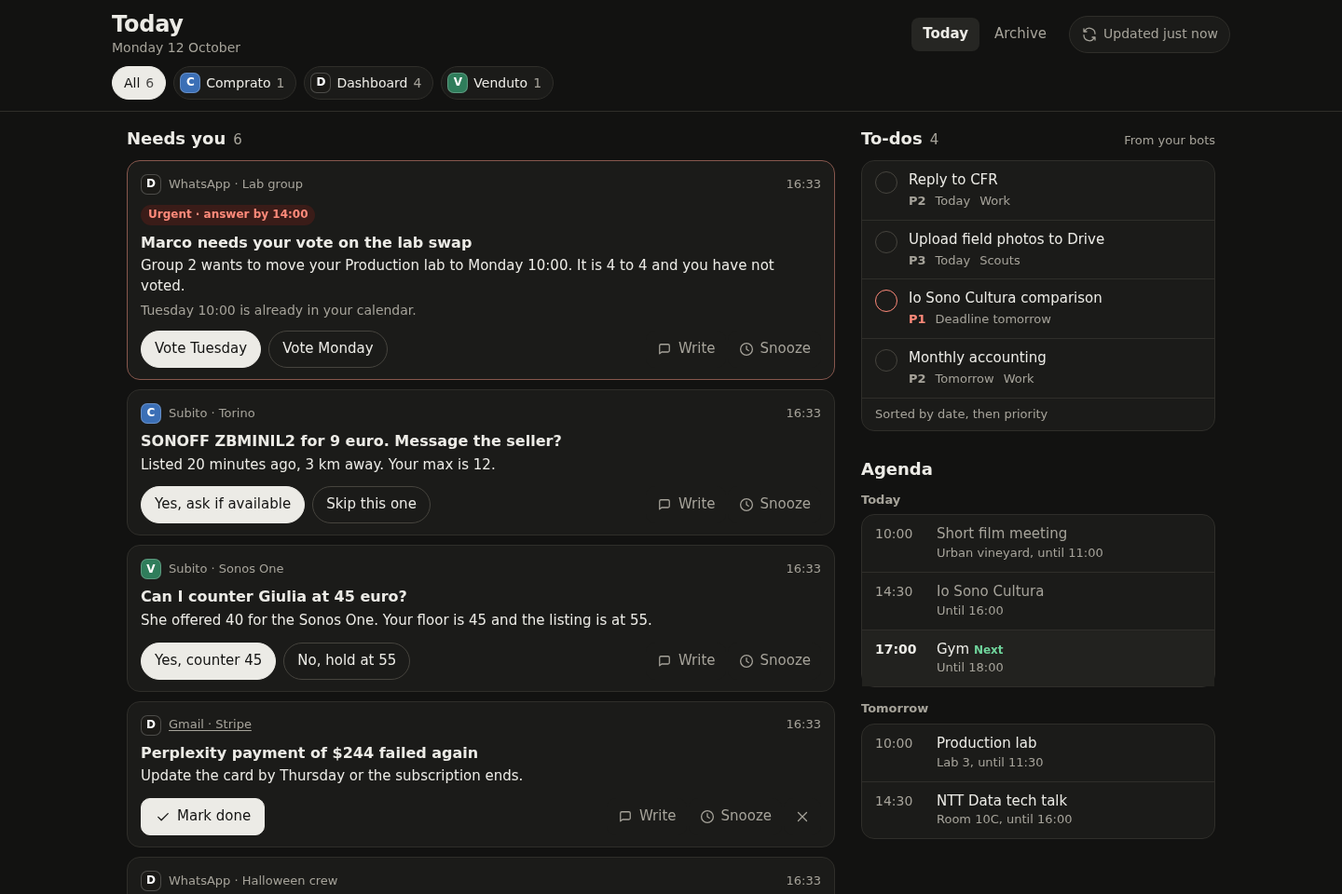
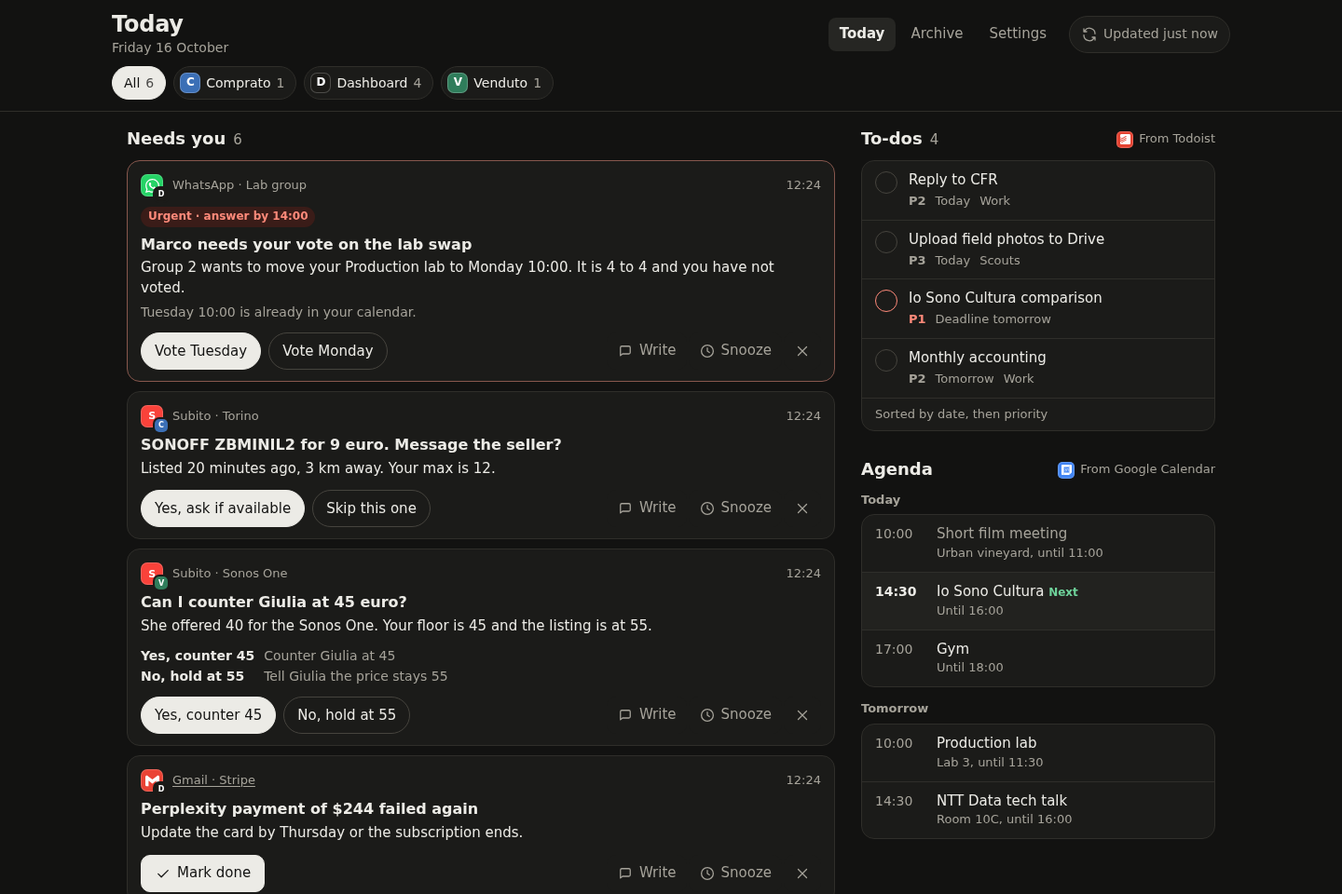
Rewrite the README in the house style and split long guides into docs/ (#19)
The top of the README now has a centered icon header, a short description,
badges, a links row and a hero screenshot in light and dark. PoliTO avvisi,
WhatsApp/mail/calendar, triage with Jev and backups move to docs/ and are
linked from a Documentation table. Screenshots are retaken from the demo data.

The old README said the server has no runtime dependencies. It has three
(imapflow, postal-mime, ical.js), so that line is corrected.

diff --git a/server/triage.ts b/server/triage.ts
@@ -132,7 +132,7 @@ export function decide(answers: JevResult["answers"], replyPct: number, automate
   return { level, need: picked, actionable, doubtful, automated, chat };
 }
 
-/** Where a decision sends the messages. The table in the README matches this. */
+/** Where a decision sends the messages. The table in docs/triage.md matches this. */
 export function routeFor(d: Decision): Route {
   if (d.actionable) return d.level >= NOW ? "wake" : "ride";
   if (d.doubtful) return "card";

diff --git a/README.md b/README.md
@@ -1,25 +1,72 @@
-<img src="public/icon-192.png" width="64" height="64" alt="">
+<p align="center">
+  <img src="public/icon-192.png" width="80" height="80" alt="">
+</p>
 
-# Grok Bot Dashboard
+<h1 align="center">Grok Bot Dashboard</h1>
 
-Grok Bot Dashboard is one page for everything your Grok Bots want from you: the questions waiting for an answer, your to-dos, today's agenda and a catch-up of busy chats. You answer with a tap instead of scrolling a chat thread.
+<p align="center">
+  One page for everything your Grok Bots want from you: questions waiting for an answer, your to-dos, today's agenda and a catch-up of busy chats.<br>
+  It runs on your own computer, opens only for your Tailscale account, and you answer with a tap instead of scrolling a chat thread.
+</p>
 
-It runs on your own computer and opens only on your Tailscale network, for your Tailscale account. There's no account to create and nothing to pay for beyond the Grok Bot subscription you already have.
+<p align="center">
+  <a href="https://github.com/SuperTost100/Grok-Bot-Dashboard/actions/workflows/ci.yml"><img alt="CI" src="https://img.shields.io/github/actions/workflow/status/SuperTost100/Grok-Bot-Dashboard/ci.yml?branch=main&label=checks"></a>
+  <a href="LICENSE"><img alt="MIT license" src="https://img.shields.io/badge/license-MIT-1b1a17"></a>
+  <img alt="Node.js 24 or newer" src="https://img.shields.io/badge/node-24%2B-1b1a17">
+</p>
+
+<p align="center">
+  <a href="#start">Start</a> ·
+  <a href="#documentation">Documentation</a>
+</p>
 
 <picture>
   <source media="(prefers-color-scheme: dark)" srcset="docs/screenshots/today-dark.png">
-  <img alt="The Today page with demo data: six cards under Needs you, led by an urgent vote on a lab swap with Vote Tuesday and Vote Monday buttons, then to-dos from Todoist on the right, today's and tomorrow's agenda, and two catch-up summaries." src="docs/screenshots/today-light.png">
+  <img alt="The Today page with demo data: six cards under Needs you, led by an urgent vote on a lab swap with Vote Tuesday and Vote Monday buttons, then to-dos from Todoist on the right and today's and tomorrow's agenda." src="docs/screenshots/today-light.png">
 </picture>
+
+## Why Grok Bot Dashboard
+
+Grok Bots ask their questions in a chat thread, where they scroll away. The dashboard collects what the bots found on one page, and each card carries the answers the bot suggests. Tap one and the bot acts within seconds.
+
+There's no account to create and nothing to pay for beyond the Grok Bot subscription you already have. The server is a single Node.js process with one SQLite file. It listens on `127.0.0.1` and opens only for your Tailscale account. On a phone, add it to your home screen and it opens full screen like an app.
 
 ## What it does
 
-1. **Collects what needs you.** Your bots post cards: a question with suggested answers, a reply they drafted, a yes/no approval, a reminder. Urgent ones sort first with their deadline.
-2. **Lets you answer in one tap.** Pick an answer, send or edit a draft, snooze, or write the bot an instruction. Anything that reaches other people waits 5 seconds with Undo, then goes to the bot that posted the card.
-3. **Shows your day.** To-dos straight from Todoist (tick them off on the page), today's and tomorrow's agenda, and one-paragraph summaries of busy group chats and mailboxes.
-4. **Brings in PoliTO avvisi.** Optional: unread course avvisi and school messages from the Politecnico di Torino become cards, and marking one read here marks it read in the PoliTO app too.
-5. **Keeps a 30-day archive.** Everything you answered, dismissed or snoozed, searchable, with what the bot did about it.
+**Collect what needs you.** Your bots post cards: a question with suggested answers, a reply they drafted, a yes/no approval, a reminder. Urgent ones sort first with their deadline.
 
-On a phone, add it to your home screen and it opens full screen like an app.
+**Answer in one tap.** Pick an answer, send or edit a draft, snooze, or write the bot an instruction. Anything that reaches other people waits 5 seconds with Undo, then goes to the bot that posted the card.
+
+**See your day.** To-dos come straight from Todoist, and you tick them off on the page. Next to them sit today's and tomorrow's agenda and one-paragraph summaries of busy group chats and mailboxes.
+
+**Bring in PoliTO avvisi.** Optional. Unread course avvisi and school messages from the Politecnico di Torino become cards, and marking one read here marks it read in the PoliTO app too. [More in the PoliTO guide](docs/polito.md).
+
+**Read WhatsApp, mail and calendar yourself.** Optional and read-only. The dashboard reads WhatsApp through WAHA, up to three mailboxes over IMAP and your calendars through iCal, so the bot doesn't have to scan them on a schedule. [Set it up in the sources guide](docs/sources.md).
+
+**Sort messages with Jev.** Optional. A small decision model on OpenRouter rates new messages, so the Grok Bot runs only when one needs a reply. 160 decisions cost under 1¢. [How triage works](docs/triage.md).
+
+**Keep a 30-day archive.** Everything you answered, dismissed or snoozed stays searchable, with what the bot did about it.
+
+<table>
+  <tr>
+    <td width="50%">
+      <picture>
+        <source media="(prefers-color-scheme: dark)" srcset="docs/screenshots/archive-dark.png">
+        <img alt="The Archive tab with five closed cards, for example a Sonos offer closed by the Venduto bot with the note Countered Giulia at 45 euro." src="docs/screenshots/archive-light.png">
+      </picture>
+    </td>
+    <td width="50%">
+      <picture>
+        <source media="(prefers-color-scheme: dark)" srcset="docs/screenshots/settings-dark.png">
+        <img alt="The Settings tab showing the undo window at 5 seconds, 30 days of archive, 7 daily backups and the triage section in Shadow mode." src="docs/screenshots/settings-light.png">
+      </picture>
+    </td>
+  </tr>
+  <tr>
+    <td>The archive keeps closed cards for 30 days, with the bot's note.</td>
+    <td>Settings change the undo window, triage and sources without a restart.</td>
+  </tr>
+</table>
 
 ## How it fits with Grok Bot
 
@@ -27,7 +74,9 @@ A Grok Bot named "Dashboard" scans your WhatsApp, mail and calendar on a schedul
 
 [Set up the bots](bot/README.md) after the dashboard runs.
 
-## Requirements
+## Start
+
+You need:
 
 - Docker with Compose, or Node.js 24 or newer.
 - [Tailscale](https://tailscale.com) on the machine that runs the dashboard and on the devices you open it from.
@@ -35,7 +84,7 @@ A Grok Bot named "Dashboard" scans your WhatsApp, mail and calendar on a schedul
 - Optional: a Todoist API token. Without one, a bot sends your to-dos instead.
 - Optional: [areadidattica](https://github.com/SuperTost100/areadidattica-cli) running on the same machine, for PoliTO avvisi.
 
-## Start
+Clone the repo and copy the example settings:
 
 ```bash
 git clone https://github.com/SuperTost100/Grok-Bot-Dashboard.git
@@ -55,7 +104,7 @@ openssl rand -hex 24
 chmod 600 .env
 ```
 
-Create the data folder yourself so it belongs to you rather than to root, then start the container. It runs as user and group 1000; if `id -u` prints something else, set `DASHBOARD_UID` and `DASHBOARD_GID` in `.env` first.
+Create the data folder yourself so it belongs to you rather than to root, then start the container. It runs as user and group 1000. If `id -u` prints something else, set `DASHBOARD_UID` and `DASHBOARD_GID` in `.env` first.
 
 ```bash
 mkdir -p data
@@ -75,6 +124,7 @@ Open `https://<machine-name>.<tailnet>.ts.net:8443` from any of your devices. An
 No Docker or Tailscale needed:
 
 ```bash
+npm ci
 npm run dev
 ```
 
@@ -111,64 +161,6 @@ The Settings tab on the page changes the undo window, the archive and backup len
 | `WEBHOOK_ALLOW_PRIVATE`       | no       | `0`         | `1` lets bots register webhooks on your LAN or tailnet                   |
 | `AUTH_MODE`                   | no       | `tailscale` | `none` turns off the owner check. Only for local development.            |
 
-## PoliTO avvisi
-
-Course avvisi from the Politecnico di Torino don't arrive by email, so the dashboard reads them from [areadidattica](https://github.com/SuperTost100/areadidattica-cli), a small local service over the API behind the official PoliTO Students app. No Grok Bot is involved, so it costs nothing from your Grok allowance.
-
-- **When it checks.** At the Dashboard bot's scheduled run times (every 2 hours when no bot has sent its schedule), when you press Refresh, and once when the server starts.
-- **What becomes a card.** Every unread avviso and school message, under its course name, with the avviso's first real line as the title. Tables in an avviso, like an exam timetable, show as tables. Emergency messages are marked urgent. PoliTO's deadlines for the next 30 days go on the agenda.
-- **Marking read.** "Mark as read" or dismiss marks it read on PoliTO, so the phone app stops counting it. If PoliTO can't be reached, the next check tries again. Avvisi you read in the phone app close here at the next check. Snooze changes nothing on PoliTO.
-- **No answers.** PoliTO cards have no Write button, because no bot would receive the message.
-
-When a check fails, the page says why in the banner under the header. The cards already on the page stay.
-
-To set it up, run areadidattica with Docker on the same machine (see its README), then add this to the dashboard's `.env` and run `docker compose up -d` again:
-
-```bash
-AREADIDATTICA_URL=http://areadidattica:8789
-AREADIDATTICA_TOKEN=<API_TOKEN from areadidattica's .env>
-COMPOSE_FILE=compose.yaml:compose.polito.yaml
-```
-
-`compose.polito.yaml` puts the dashboard on areadidattica's Compose network, which is named after the folder areadidattica runs from. The default, `areadidattica_default`, fits a folder called `areadidattica`; for another folder, set `AREADIDATTICA_NETWORK=<folder>_default`. Without Docker, use `AREADIDATTICA_URL=http://127.0.0.1:8789` and skip `COMPOSE_FILE`.
-
-## WhatsApp, mail and calendar
-
-The dashboard can read your WhatsApp, up to three mailboxes and your calendars itself, so the Grok Bot doesn't have to scan them on a schedule. Everything here is read-only: it never sends, marks read, moves or deletes anything. Set it up under Settings on the page.
-
-- **WhatsApp** goes through [WAHA](https://waha.devlike.pro), which links to your account as a device, like WhatsApp Web. Add `WAHA_API_KEY=<random secret>` to `.env`, add `compose.whatsapp.yaml` to `COMPOSE_FILE`, and run `docker compose up -d`. Then open Settings and scan the QR code under WhatsApp 1 with your phone. A code lasts a few minutes; if it expires, press "Show a new QR code". For a second number, like a business one, also add `compose.whatsapp2.yaml` and link it under WhatsApp 2: the free WAHA links one number per container. The dashboard reads new messages every minute. WAHA is set never to show as online, so WhatsApp keeps sending notifications to your phone.
-- **Mail** is read over IMAP every 2 minutes: new mail in the inbox, and your own replies in the Sent folder. For Gmail, create an app password in your Google Account and use that, not your normal password.
-- **Calendar** comes from each calendar's secret iCal address, read every 15 minutes. In Google Calendar it's under Settings, your calendar, Integrate calendar. With an address set, the agenda shows those calendars and PoliTO deadlines, and agenda updates from bots are ignored.
-
-The first time a mailbox or WhatsApp is read, the dashboard looks back 3 days. Message text stays in `data/dashboard.db` for 14 days. Settings shows when each source was last read, and the banner on Today says when one has been failing for more than 10 minutes.
-
-## Triage with Jev
-
-With WhatsApp or mail connected, the dashboard can sort new messages itself, so the Grok Bot only runs when something needs a reply or an answer. The sorting is done by [Jev](https://openrouter.ai/docs/guides/community/jev), a decision model on OpenRouter that answers questions with probabilities instead of text. It costs $0.042 per million input tokens; one decision is about 1,000 tokens, so 160 decisions cost under 1¢. Add an OpenRouter API key under Settings, Triage.
-
-Each burst of new messages in a chat or mail thread is one decision. Jev answers four questions: what it would cost you to look only tonight, what it needs from you (a reply, a decision, a task, information, nothing), whether it's addressed to you personally, and whether a machine sent it. The dashboard acts on Jev's probabilities, not on its single best guess:
-
-| Jev says                                                          | What happens                                         | Grok runs?      |
-| ----------------------------------------------------------------- | ---------------------------------------------------- | --------------- |
-| Likely needs your reply or decision, clearly urgent               | Urgent card and a phone ping; Grok drafts the answer | Yes, right away |
-| Likely needs your reply or decision                               | A card now; Grok writes the answer at its next run   | Later           |
-| Might need a reply (35% to the "Grok works on a chat at" setting) | A card made from the message                         | No              |
-| A task, news for today, or a person writing to you privately      | A card made from the message                         | No              |
-| Group chatter, or information that can wait                       | A line in Catch up                                   | No              |
-| Noise or automatic mail                                           | Listed under "Filtered out today" in Catch up        | No              |
-
-**Calendar.** Every burst, your own replies included, also gets two calendar questions: does it set a date for something you take part in, and does it name a specific day? Something already set (a confirmed appointment, an exam, a lesson that moved, a booking, a deadline you have to meet, a cancellation) goes to the Grok Bot, which puts it in your main Google Calendar at its next run; a card says so meanwhile. A deadline with a time becomes an event at that time. An open invitation gets a card with an "Add to calendar" button, and Grok runs only if you tap it. Dates in ads and newsletters, other people's plans in groups, and anything without a day ("let's talk this weekend", "I'm on my way") are left alone. On 223 real bursts this added 5 events and asked about none.
-
-In a group, a question needs you only when it names you or asks you to decide; mentions of you are rewritten as @your-name so Jev can tell. While you're chatting in a chat yourself (you wrote there in the last 15 minutes), its new messages need no decision. When you reply from your phone, the chat's card closes.
-
-These rules were tuned on 165 real decisions against the cards the Grok bot made for the same messages: Jev rates almost any live chat message as urgent, so urgency only counts when it's clear-cut.
-
-Grok wakes for chats that need it at most once every 45 minutes and takes everything waiting in one run. Chats due today wake it when 3 are waiting or the oldest has waited 2 hours, and anything left waits at most a day. After 10 Grok runs in a day, message wakes stop until the next day; your taps always go through. The footer counts Grok runs. All these numbers are on the Settings page.
-
-Triage starts in Shadow mode: Jev sorts and logs, but the page and Grok work as before, and Settings shows what triage would have done today. Switch Mode to On when its choices look right. Then Refresh only rereads your sources, and the Grok Bot needs the new instructions in [`bot/dashboard-bot.md`](bot/dashboard-bot.md).
-
-For urgent cards, set an [ntfy](https://ntfy.sh) topic under Phone pings and subscribe to it in the ntfy app. The ping says how many urgent cards wait and links to the dashboard, never what they say.
-
 ## Your data
 
 Everything lives in one SQLite file, `data/dashboard.db`, readable by your user only. These are the only things the server sends off the machine:
@@ -177,30 +169,24 @@ Everything lives in one SQLite file, `data/dashboard.db`, readable by your user 
 - **Todoist.** With `TODOIST_TOKEN` set, it reads your active tasks and completes or reopens the ones you tick.
 - **Triage.** With an OpenRouter key set, the text of new messages (up to 15 per decision, cut to 1,500 characters each) goes to OpenRouter and Jev's provider, TypeSafe.
 - **Phone pings.** With an ntfy topic set, urgent cards send a count and a link to that topic.
-- **WhatsApp, mail and calendars.** When you set them up, it reads them through WAHA, IMAP and the iCal addresses you gave it, as described above.
+- **WhatsApp, mail and calendars.** When you set them up, it reads them through WAHA, IMAP and the iCal addresses you gave it, as described in the [sources guide](docs/sources.md).
 - **areadidattica.** With `AREADIDATTICA_URL` set, it asks that local service for unread avvisi and deadlines, and tells it which ones you marked read. areadidattica is the one that talks to PoliTO.
 
 The bots read your chats and mail inside Grok Bot, as they already do, and post only the summaries you see.
 
-### Backups
-
-The server writes a consistent copy of the database to `data/backups/` once a day and keeps the last 7. Don't copy `dashboard.db` by hand while it runs: SQLite keeps recent changes in a side file, and a plain copy can come out broken. For a backup right now:
-
-```bash
-docker compose exec dashboard node server/backup.ts
-```
-
-It prints where it wrote the file and checks that the copy opens. To restore one, stop the container, put the backup in place of `data/dashboard.db`, delete `data/dashboard.db-wal` and `data/dashboard.db-shm`, and start it again.
+The server writes a consistent copy of the database to `data/backups/` once a day and keeps the last 7. [The backups guide](docs/backups.md) covers backing up right now and restoring.
 
 ## Development
 
+You need Node.js 24 or newer.
+
 ```bash
-npm ci
-npm test
-npm run check
+npm ci          # installs TypeScript and the mail and calendar libraries
+npm test        # runs the API tests
+npm run check   # typechecks
 ```
 
-`npm test` runs the API tests and `npm run check` typechecks. The server is plain TypeScript run by Node 24 directly, with no build step and no runtime dependencies: HTTP, SQLite and `fetch` all come from Node. The page is plain HTML, CSS and JavaScript in `public/`.
+The server is plain TypeScript run by Node 24 directly, with no build step. HTTP, SQLite and `fetch` come from Node. Mail and calendars use three small libraries (`imapflow`, `postal-mime` and `ical.js`). The page is plain HTML, CSS and JavaScript in `public/`. CI runs the same checks, syntax-checks the shell scripts and builds the Docker image.
 
 ## Documentation
 
@@ -209,6 +195,10 @@ npm run check
 | [Set up the bots](bot/README.md)                   | Install `grokdash`, create the Dashboard bot, add a webhook |
 | [Dashboard bot instructions](bot/dashboard-bot.md) | The prompt that makes a Grok Bot keep the page current      |
 | [Secretary changes](bot/secretary.md)              | Turn your current assistant into the urgent-card notifier   |
+| [WhatsApp, mail and calendar](docs/sources.md)     | Let the dashboard read your sources itself                  |
+| [Triage with Jev](docs/triage.md)                  | How new messages are sorted and when Grok wakes             |
+| [PoliTO avvisi](docs/polito.md)                    | Course avvisi and deadlines through areadidattica           |
+| [Backups](docs/backups.md)                         | Daily copies, a backup right now, and restoring             |
 | [API reference](docs/API.md)                       | Every endpoint, for bots that don't use `grokdash`          |
 
 ## License

diff --git a/docs/triage.md b/docs/triage.md
@@ -1,0 +1,38 @@
+# Triage with Jev
+
+With WhatsApp or mail connected (see [WhatsApp, mail and calendar](sources.md)), the dashboard can sort new messages itself, so the Grok Bot only runs when something needs a reply or an answer. The sorting is done by [Jev](https://openrouter.ai/docs/guides/community/jev), a decision model on OpenRouter that answers questions with probabilities instead of text. It costs $0.042 per million input tokens. One decision is about 1,000 tokens, so 160 decisions cost under 1¢. Add an OpenRouter API key under Settings, Triage.
+
+## How a message is sorted
+
+Each burst of new messages in a chat or mail thread is one decision. Jev answers four questions: what it would cost you to look only tonight, what it needs from you (a reply, a decision, a task, information, nothing), whether it's addressed to you personally, and whether a machine sent it. The dashboard acts on Jev's probabilities, not on its single best guess:
+
+| Jev says                                                          | What happens                                         | Grok runs?      |
+| ----------------------------------------------------------------- | ---------------------------------------------------- | --------------- |
+| Likely needs your reply or decision, clearly urgent               | Urgent card and a phone ping; Grok drafts the answer | Yes, right away |
+| Likely needs your reply or decision                               | A card now; Grok writes the answer at its next run   | Later           |
+| Might need a reply (35% to the "Grok works on a chat at" setting) | A card made from the message                         | No              |
+| A task, news for today, or a person writing to you privately      | A card made from the message                         | No              |
+| Group chatter, or information that can wait                       | A line in Catch up                                   | No              |
+| Noise or automatic mail                                           | Listed under "Filtered out today" in Catch up        | No              |
+
+In a group, a question needs you only when it names you or asks you to decide. Mentions of you are rewritten as @your-name so Jev can tell. While you're chatting in a chat yourself (you wrote there in the last 15 minutes), its new messages need no decision. When you reply from your phone, the chat's card closes.
+
+These rules were tuned on 165 real decisions against the cards the Grok bot made for the same messages. Jev rates almost any live chat message as urgent, so urgency only counts when it's clear-cut.
+
+## Calendar events
+
+Every burst, your own replies included, also gets two calendar questions: does it set a date for something you take part in, and does it name a specific day?
+
+Something already set goes to the Grok Bot, which puts it in your main Google Calendar at its next run. A card says so meanwhile. That covers a confirmed appointment, an exam, a lesson that moved, a booking, a deadline you have to meet and a cancellation. A deadline with a time becomes an event at that time.
+
+An open invitation gets a card with an "Add to calendar" button, and Grok runs only if you tap it. Dates in ads and newsletters, other people's plans in groups, and anything without a day ("let's talk this weekend", "I'm on my way") are left alone. On 223 real bursts this added 5 events and asked about none.
+
+## When Grok wakes
+
+Grok wakes for chats that need it at most once every 45 minutes and takes everything waiting in one run. Chats due today wake it when 3 are waiting or the oldest has waited 2 hours, and anything left waits at most a day. After 10 Grok runs in a day, message wakes stop until the next day. Your taps always go through. The footer counts Grok runs. All these numbers are on the Settings page.
+
+## Turning it on
+
+Triage starts in Shadow mode: Jev sorts and logs, but the page and Grok work as before, and Settings shows what triage would have done today. Switch Mode to On when its choices look right. Then Refresh only rereads your sources, and the Grok Bot needs the new instructions in [`bot/dashboard-bot.md`](../bot/dashboard-bot.md).
+
+For urgent cards, set an [ntfy](https://ntfy.sh) topic under Phone pings and subscribe to it in the ntfy app. The ping says how many urgent cards wait and links to the dashboard, never what they say.

diff --git a/docs/polito.md b/docs/polito.md
@@ -1,0 +1,22 @@
+# PoliTO avvisi
+
+Course avvisi from the Politecnico di Torino don't arrive by email, so the dashboard reads them from [areadidattica](https://github.com/SuperTost100/areadidattica-cli), a small local service over the API behind the official PoliTO Students app. No Grok Bot is involved, so it costs nothing from your Grok allowance.
+
+- **When it checks.** At the Dashboard bot's scheduled run times (every 2 hours when no bot has sent its schedule), when you press Refresh, and once when the server starts.
+- **What becomes a card.** Every unread avviso and school message, under its course name, with the avviso's first real line as the title. Tables in an avviso, like an exam timetable, show as tables. Emergency messages are marked urgent. PoliTO's deadlines for the next 30 days go on the agenda.
+- **Marking read.** "Mark as read" or dismiss marks it read on PoliTO, so the phone app stops counting it. If PoliTO can't be reached, the next check tries again. Avvisi you read in the phone app close here at the next check. Snooze changes nothing on PoliTO.
+- **No answers.** PoliTO cards have no Write button, because no bot would receive the message.
+
+When a check fails, the page says why in the banner under the header. The cards already on the page stay.
+
+## Set it up
+
+Run areadidattica with Docker on the same machine (see its README), then add this to the dashboard's `.env` and run `docker compose up -d` again:
+
+```bash
+AREADIDATTICA_URL=http://areadidattica:8789
+AREADIDATTICA_TOKEN=<API_TOKEN from areadidattica's .env>
+COMPOSE_FILE=compose.yaml:compose.polito.yaml
+```
+
+`compose.polito.yaml` puts the dashboard on areadidattica's Compose network, which is named after the folder areadidattica runs from. The default, `areadidattica_default`, fits a folder called `areadidattica`. For another folder, set `AREADIDATTICA_NETWORK=<folder>_default`. Without Docker, use `AREADIDATTICA_URL=http://127.0.0.1:8789` and skip `COMPOSE_FILE`.

diff --git a/docs/sources.md b/docs/sources.md
@@ -1,0 +1,11 @@
+# WhatsApp, mail and calendar
+
+The dashboard can read your WhatsApp, up to three mailboxes and your calendars itself, so the Grok Bot doesn't have to scan them on a schedule. Everything here is read-only: it never sends, marks read, moves or deletes anything. Set it up under Settings on the page.
+
+- **WhatsApp.** It goes through [WAHA](https://waha.devlike.pro), which links to your account as a device, like WhatsApp Web. Add `WAHA_API_KEY=<random secret>` to `.env`, add `compose.whatsapp.yaml` to `COMPOSE_FILE`, and run `docker compose up -d`. Then open Settings and scan the QR code under WhatsApp 1 with your phone. A code lasts a few minutes. If it expires, press "Show a new QR code". For a second number, like a business one, also add `compose.whatsapp2.yaml` and link it under WhatsApp 2, because the free WAHA links one number per container. The dashboard reads new messages every minute. WAHA is set never to show as online, so WhatsApp keeps sending notifications to your phone.
+- **Mail.** It is read over IMAP every 2 minutes: new mail in the inbox, and your own replies in the Sent folder. For Gmail, create an app password in your Google Account and use that, not your normal password.
+- **Calendar.** It comes from each calendar's secret iCal address, read every 15 minutes. In Google Calendar it's under Settings, your calendar, Integrate calendar. With an address set, the agenda shows those calendars and PoliTO deadlines, and agenda updates from bots are ignored.
+
+The first time a mailbox or WhatsApp is read, the dashboard looks back 3 days. Message text stays in `data/dashboard.db` for 14 days. Settings shows when each source was last read, and the banner on Today says when one has been failing for more than 10 minutes.
+
+To sort what comes in without waking the Grok Bot for every message, turn on [triage](triage.md).

diff --git a/bot/README.md b/bot/README.md
@@ -76,7 +76,7 @@ Every run uses your Grok Bot allowance, so the schedule is the main cost. With 8
 
 ### With triage on
 
-When the dashboard reads WhatsApp and mail itself and triage is On (see [Triage with Jev](../README.md#triage-with-jev)), the bot doesn't need a schedule. The webhook wakes it when a chat needs a reply or an answer, and when you tap. So:
+When the dashboard reads WhatsApp and mail itself and triage is On (see [Triage with Jev](../docs/triage.md)), the bot doesn't need a schedule. The webhook wakes it when a chat needs a reply or an answer, and when you tap. So:
 
 1. Delete the routine that runs every 2 hours. Keep the webhook routine.
 2. Empty the schedule in `~/.config/grokdash/config`: `SCHEDULE=`.

diff --git a/docs/backups.md b/docs/backups.md
@@ -1,0 +1,13 @@
+# Backups
+
+The server writes a consistent copy of the database to `data/backups/` once a day and keeps the last 7. Set `BACKUP_DAYS` to change that, or to `0` to turn daily backups off.
+
+Don't copy `dashboard.db` by hand while it runs. SQLite keeps recent changes in a side file, and a plain copy can come out broken. For a backup right now:
+
+```bash
+docker compose exec dashboard node server/backup.ts
+```
+
+It prints where it wrote the file and checks that the copy opens. Without Docker, run `npm run backup`.
+
+To restore one, stop the container, put the backup in place of `data/dashboard.db`, delete `data/dashboard.db-wal` and `data/dashboard.db-shm`, and start it again.
